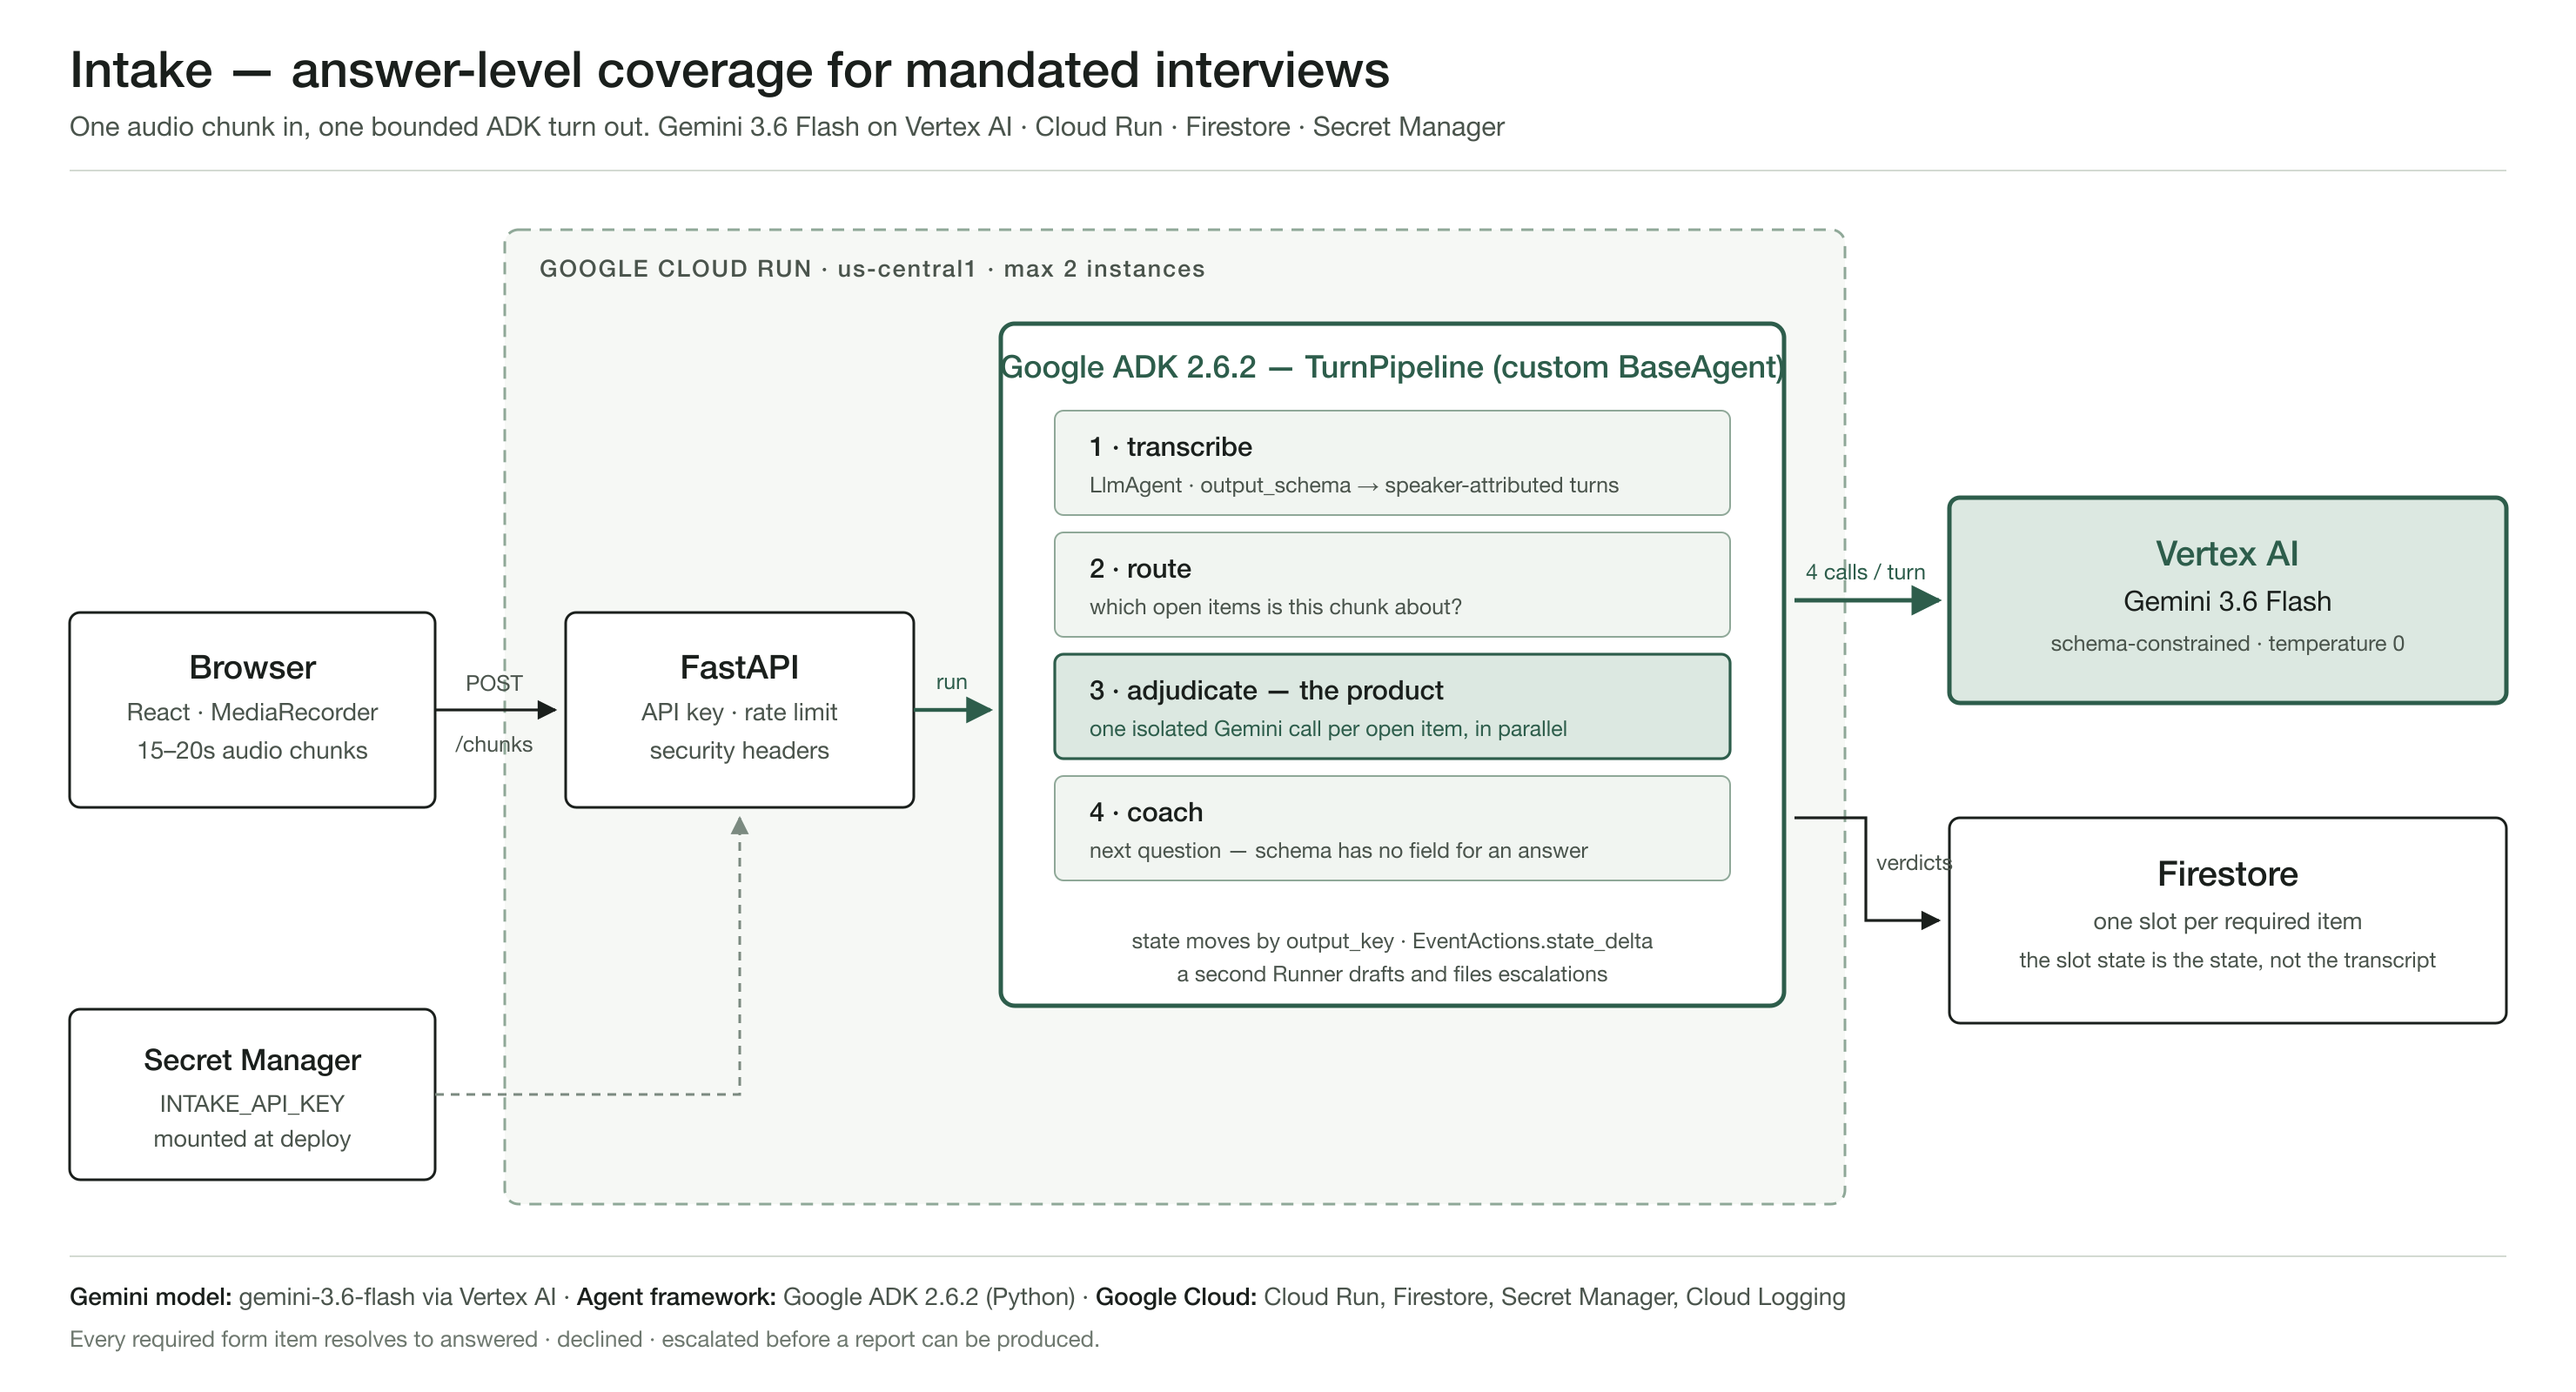
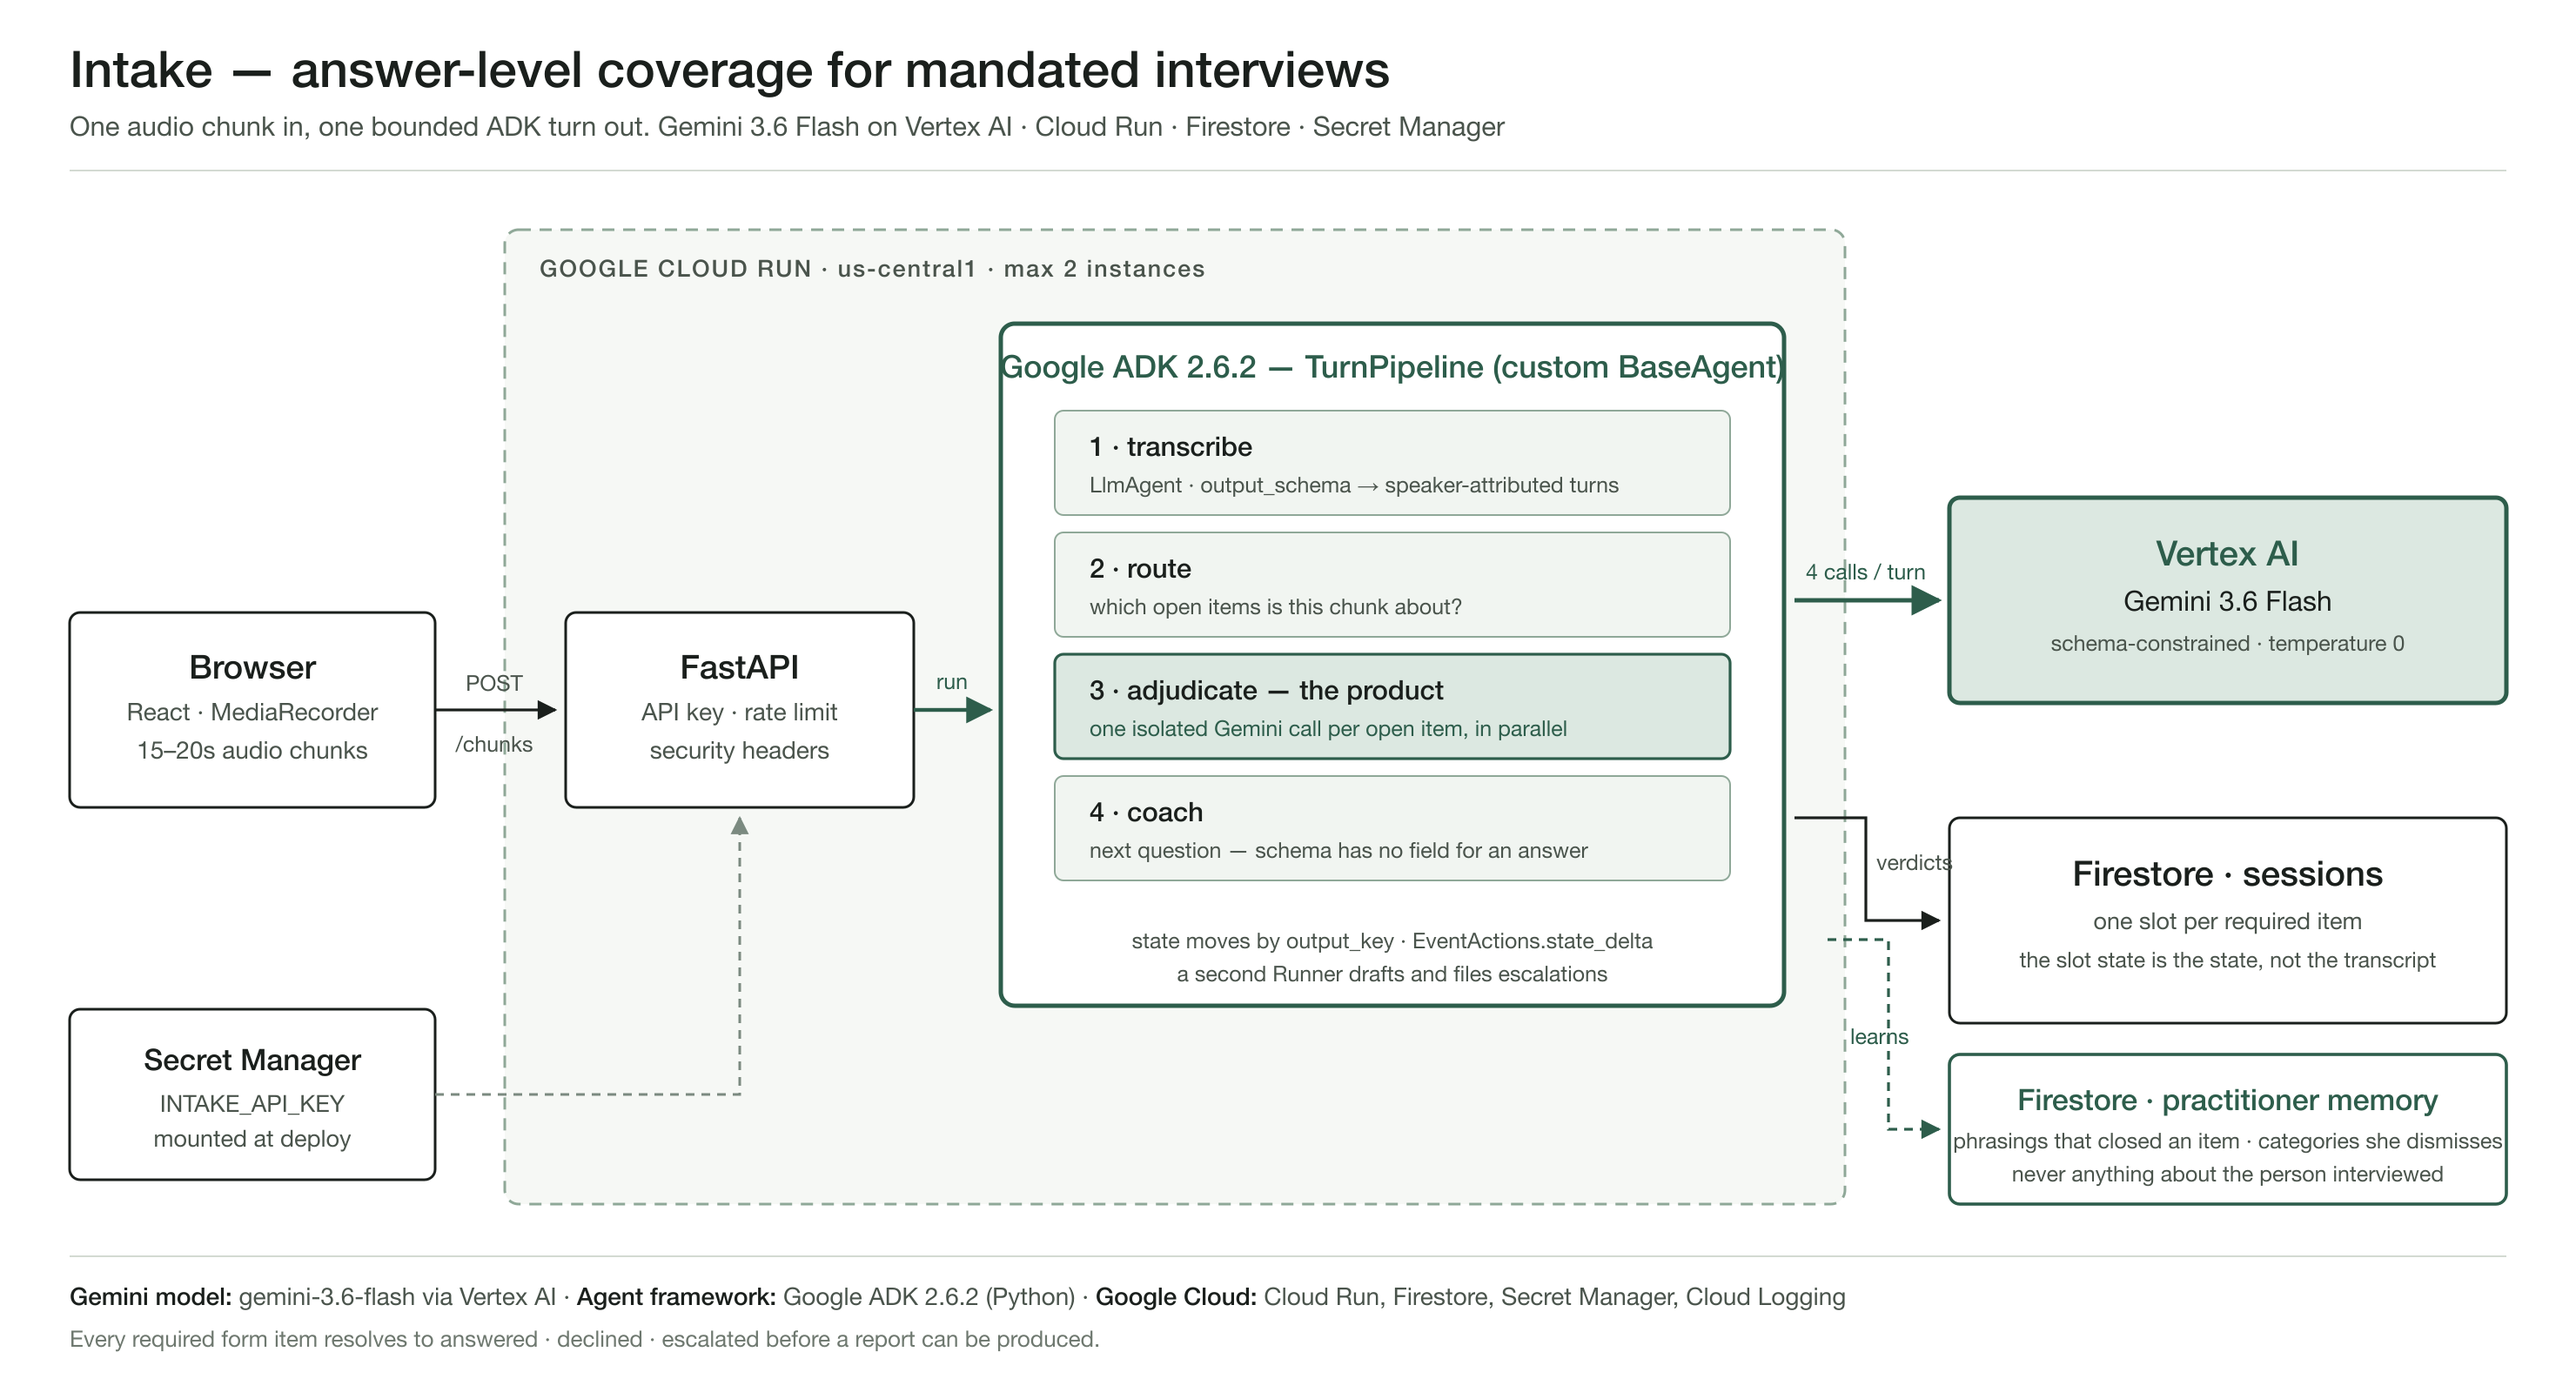
Put memory in the architecture diagram, and correct two stale README claims
The architecture diagram is the required upload and it was rendered on 20 Aug.
Memory landed on the 29th and did not appear in it at all — which matters more
than a normal omission, because self-improvement over time is the criterion the
Collaborative Partner track is judged on. Firestore is now shown as two things:
sessions, and practitioner memory with what it may hold and what it may never.

The README claimed 51 tests. There are 134, and the claim sits directly above
the command that prints the real number, so a judge running it would have found
the discrepancy before anything else.

The deploy section also still told you to build the client by hand against a
Cloud Run URL. deploy.sh does that itself now, with an empty VITE_API_BASE so
the client calls its own origin. Following the old instructions would have
produced a second, differently-configured bundle. The access-code note said
sessionStorage; it is localStorage, and the ?key= parameter is worth knowing
about.

Every command in the spin-up was run verbatim before committing this.

Claude-Session: https://claude.ai/code/session_01AqeJvnjte9YPXFdE8A9Syx

Changed region(s): [[0.7459, 0.7812, 0.9635, 0.875], [0.8081, 0.625, 0.9324, 0.6562], [0.7149, 0.7188, 0.7459, 0.75]]

diff --git a/README.md b/README.md
@@ -185,12 +185,12 @@ echo 'FIRESTORE_DATABASE=intake' >> .env
 You can also skip Firestore entirely — set `INTAKE_STORE=memory` and everything
 runs, minus durability. `GET /health` always tells you which store is live.
 
-### 2. Verify the adjudicator before anything else
+### 2. Reproducible testing — verify the adjudicator before anything else
 
 The adjudicator is the product, so it is the first thing to run:
 
 ```bash
-uv run --group dev pytest backend/tests -q   # 51 tests, no network
+uv run --group dev pytest backend/tests -q   # 134 tests, no network
 cd eval && uv run python run_eval.py         # 47 labelled cases, real Vertex calls
 ```
 
@@ -223,16 +223,16 @@ printf 'choose-a-long-random-string' | gcloud secrets create intake-api-key --da
 ./backend/deploy.sh
 ```
 
-Then build the client against it:
-
-```bash
-cd web && VITE_API_BASE=https://intake-agent-xxxx.run.app npm run build
-```
+`deploy.sh` builds the web client and ships it inside the image, so the deployed
+URL serves the app itself rather than a bare API. It builds with an empty
+`VITE_API_BASE`, meaning "call my own origin" — there is no separate client
+build step and no CORS surface.
 
 **The access code is never built in.** Vite inlines `import.meta.env.*` at build
 time, so a `VITE_API_KEY` would ship readable inside the JS bundle — a published
 credential to an endpoint that spends money on Vertex AI per request. The app
-asks for the code instead and keeps it in `sessionStorage` for that tab only.
+asks for the code instead and keeps it in the browser's `localStorage`; a
+`?key=…` parameter also works and is stripped from the address bar.
 
 Every request that costs money requires `X-Intake-Key` and is rate limited per
 key. The service refuses to start ungated: with no `INTAKE_API_KEY` set it
